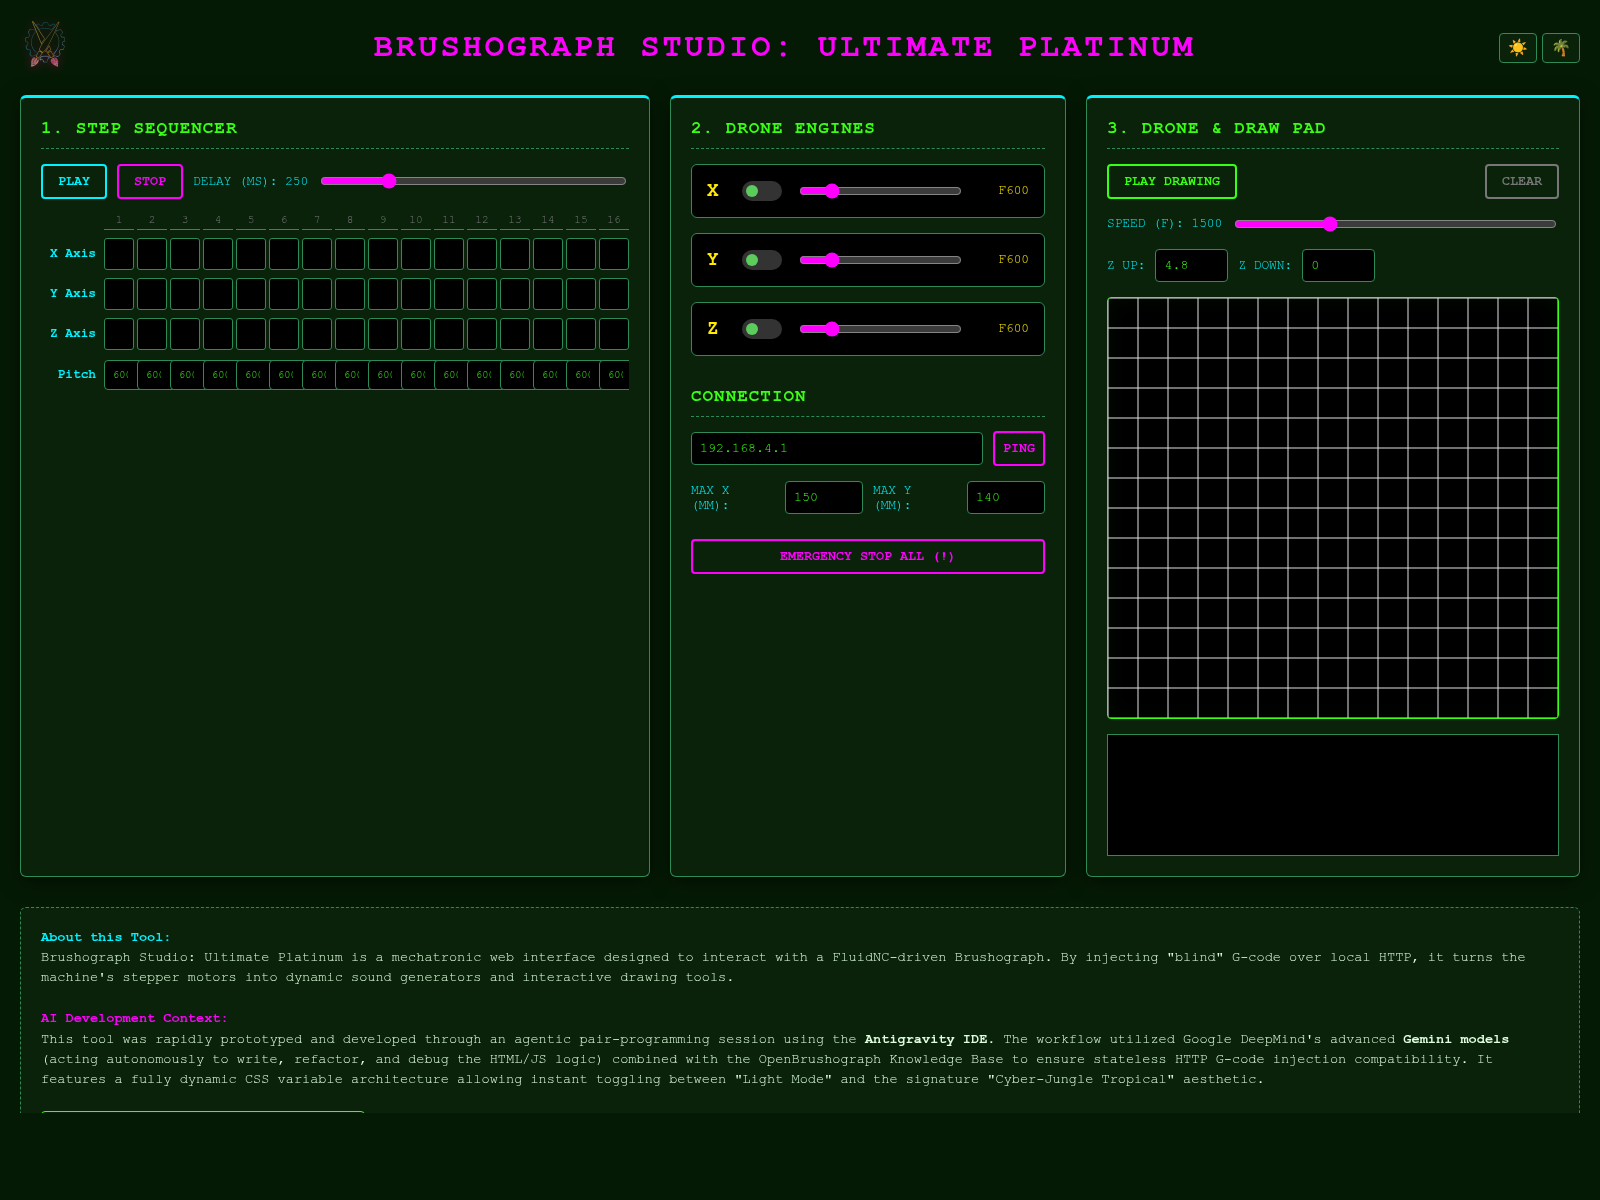
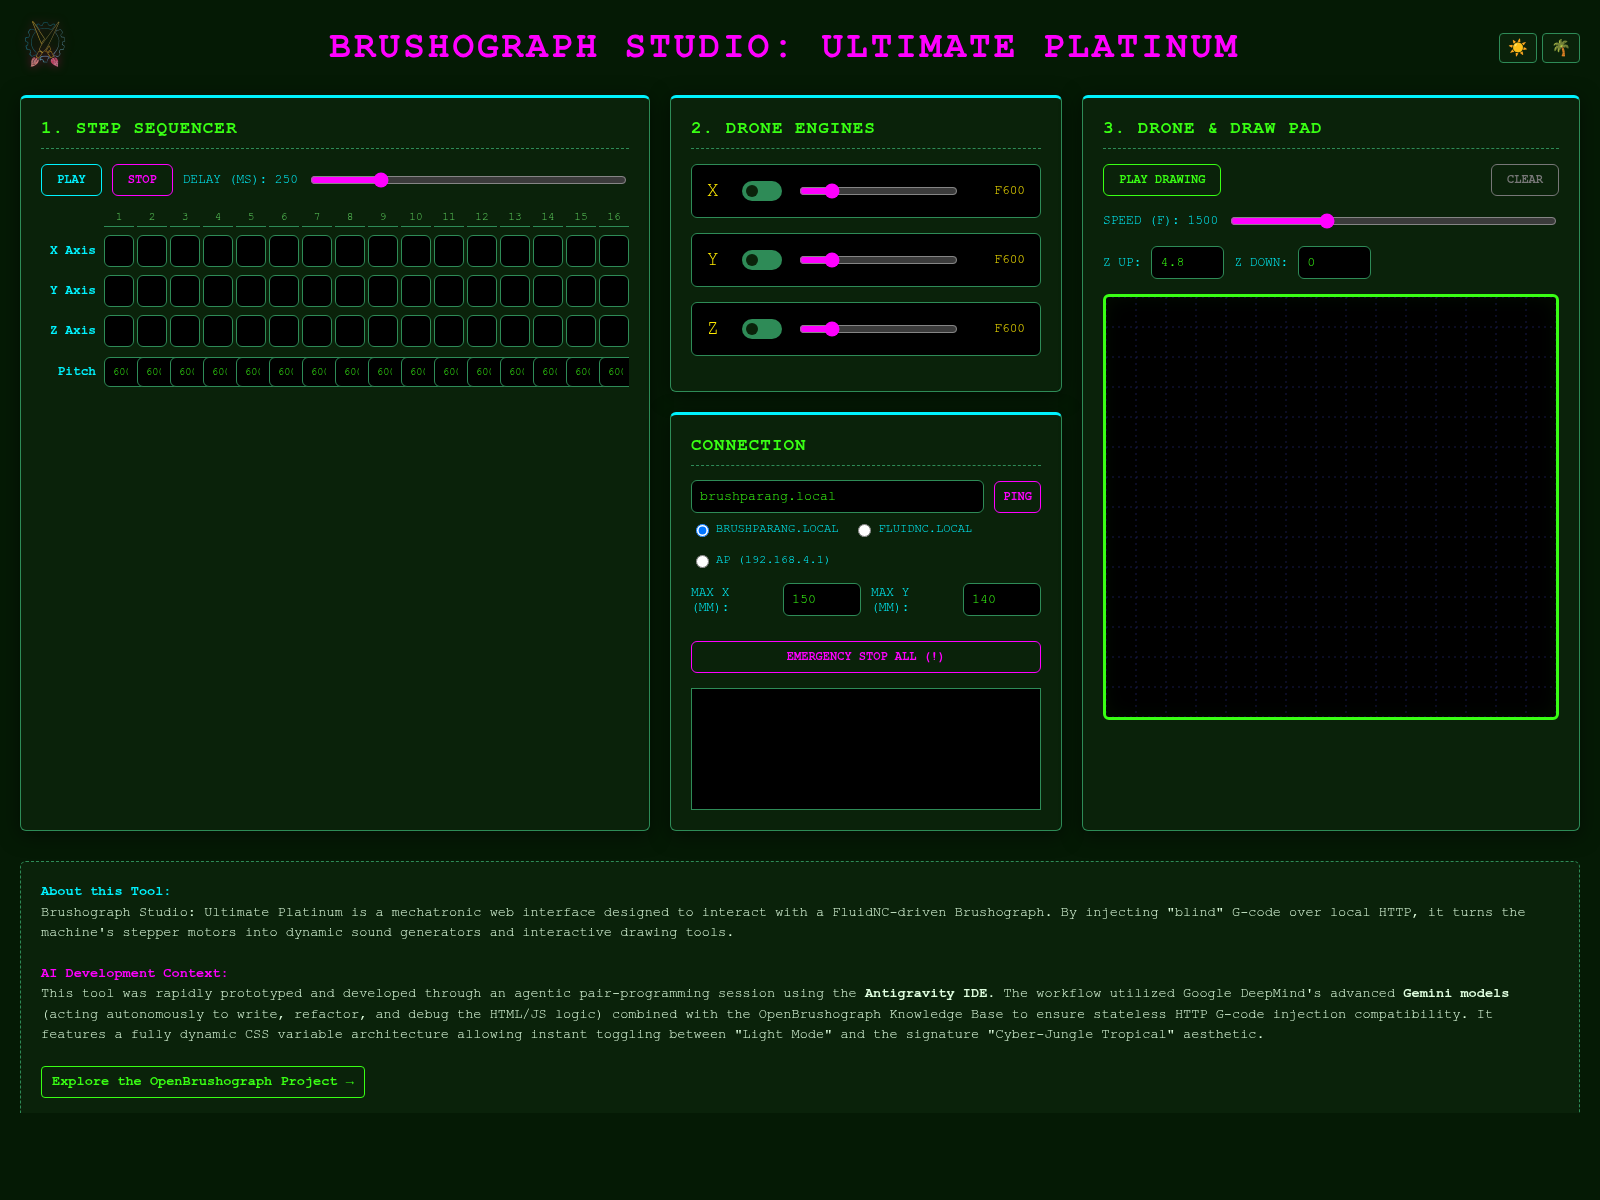
feat: redesign connection panel with address presets and update console placement

diff --git a/studio/brushograph_ultimate_platinum.html b/studio/brushograph_ultimate_platinum.html
@@ -352,39 +352,49 @@
         </div>
 
         <!-- COLUMN 2: DRONES & CONFIG -->
-        <div class="panel">
-            <h2>2. Drone Engines</h2>
-            
-            <div class="drone-track">
-                <div class="drone-label">X</div>
-                <label class="switch"><input type="checkbox" id="drone-x-toggle"><span class="slider"></span></label>
-                <input type="range" id="drone-x-pitch" min="100" max="3000" value="600" step="50">
-                <div class="pitch-val" id="drone-x-val">F600</div>
-            </div>
-            <div class="drone-track">
-                <div class="drone-label">Y</div>
-                <label class="switch"><input type="checkbox" id="drone-y-toggle"><span class="slider"></span></label>
-                <input type="range" id="drone-y-pitch" min="100" max="3000" value="600" step="50">
-                <div class="pitch-val" id="drone-y-val">F600</div>
-            </div>
-            <div class="drone-track">
-                <div class="drone-label">Z</div>
-                <label class="switch"><input type="checkbox" id="drone-z-toggle"><span class="slider"></span></label>
-                <input type="range" id="drone-z-pitch" min="100" max="3000" value="600" step="50">
-                <div class="pitch-val" id="drone-z-val">F600</div>
+        <div style="display: flex; flex-direction: column; gap: 20px;">
+            <div class="panel">
+                <h2>2. Drone Engines</h2>
+                
+                <div class="drone-track">
+                    <div class="drone-label">X</div>
+                    <label class="switch"><input type="checkbox" id="drone-x-toggle"><span class="slider"></span></label>
+                    <input type="range" id="drone-x-pitch" min="100" max="3000" value="600" step="50">
+                    <div class="pitch-val" id="drone-x-val">F600</div>
+                </div>
+                <div class="drone-track">
+                    <div class="drone-label">Y</div>
+                    <label class="switch"><input type="checkbox" id="drone-y-toggle"><span class="slider"></span></label>
+                    <input type="range" id="drone-y-pitch" min="100" max="3000" value="600" step="50">
+                    <div class="pitch-val" id="drone-y-val">F600</div>
+                </div>
+                <div class="drone-track">
+                    <div class="drone-label">Z</div>
+                    <label class="switch"><input type="checkbox" id="drone-z-toggle"><span class="slider"></span></label>
+                    <input type="range" id="drone-z-pitch" min="100" max="3000" value="600" step="50">
+                    <div class="pitch-val" id="drone-z-val">F600</div>
+                </div>
             </div>
 
-            <h2 style="margin-top: 30px;">Connection</h2>
-            <div class="input-group">
-                <input type="text" id="ip-input" value="192.168.4.1" placeholder="IP Address" style="flex-grow: 1;">
-                <button id="btn-ping" style="padding: 8px;">Ping</button>
+            <div class="panel">
+                <h2>Connection</h2>
+                <div class="input-group" style="margin-bottom: 8px;">
+                    <input type="text" id="ip-input" value="brushparang.local" placeholder="Device Address" style="flex-grow: 1;">
+                    <button id="btn-ping" style="padding: 8px;">Ping</button>
+                </div>
+                <div style="display: flex; gap: 15px; margin-bottom: 15px; font-size: 0.75rem; color: var(--accent-blue); font-family: var(--font-head); text-transform: uppercase; flex-wrap: wrap;">
+                    <label style="cursor:pointer; display:flex; align-items:center; gap:4px;"><input type="radio" name="ip-choice" value="brushparang.local" onchange="document.getElementById('ip-input').value = this.value" checked> brushparang.local</label>
+                    <label style="cursor:pointer; display:flex; align-items:center; gap:4px;"><input type="radio" name="ip-choice" value="fluidnc.local" onchange="document.getElementById('ip-input').value = this.value"> fluidnc.local</label>
+                    <label style="cursor:pointer; display:flex; align-items:center; gap:4px;"><input type="radio" name="ip-choice" value="192.168.4.1" onchange="document.getElementById('ip-input').value = this.value"> AP (192.168.4.1)</label>
+                </div>
+                <div class="input-group">
+                    <label>Max X (mm):</label><input type="number" id="max-x" value="150" style="width:60px;">
+                    <label>Max Y (mm):</label><input type="number" id="max-y" value="140" style="width:60px;">
+                </div>
+                
+                <button id="btn-panic" style="width: 100%; margin-top: 10px;">Emergency Stop All (!)</button>
+                <div class="console-output" id="console"></div>
             </div>
-            <div class="input-group">
-                <label>Max X (mm):</label><input type="number" id="max-x" value="150" style="width:60px;">
-                <label>Max Y (mm):</label><input type="number" id="max-y" value="140" style="width:60px;">
-            </div>
-            
-            <button id="btn-panic" style="width: 100%; margin-top: 10px;">Emergency Stop All (!)</button>
         </div>
 
         <!-- COLUMN 3: DRAWING PAD -->
@@ -407,8 +417,6 @@
             <div class="canvas-container">
                 <canvas id="xy-pad" width="450" height="420"></canvas>
             </div>
-
-            <div class="console-output" id="console"></div>
         </div>
 
     </div>